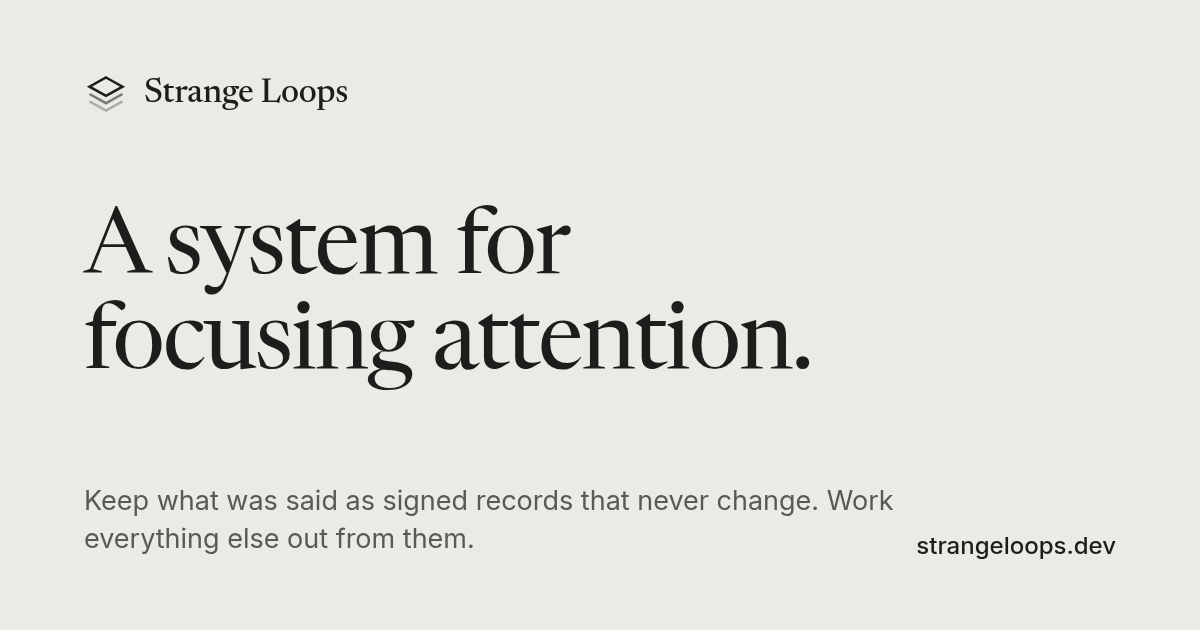
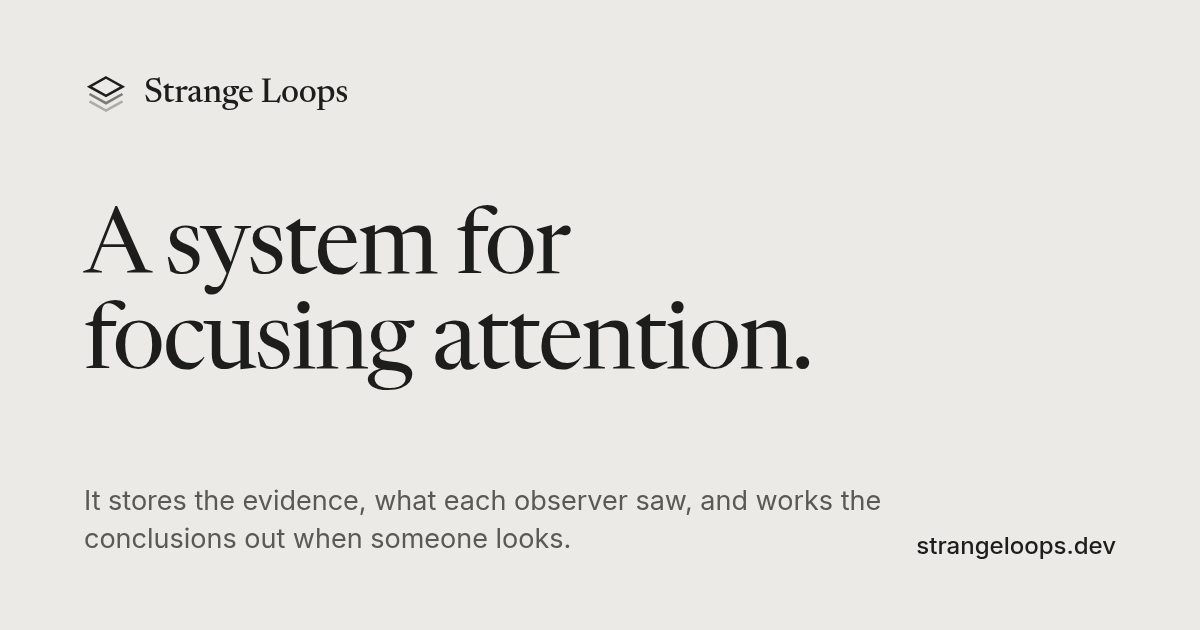
Describe the project by what it stores and what it works out
The description said how the mechanism runs. Kyle shared the first
strange-loops repository's own account, which opens with the
contrast that explains why: an application's database holds a row
that says the world is so, a conclusion nobody witnessed, and this
system stores the evidence and derives the conclusions. The
description now says that, and ends on his name for the purpose, a
system for focusing attention. The card's second line follows it.

Changed region(s): [[0.0617, 0.7841, 0.74, 0.8143], [0.0617, 0.8444, 0.4933, 0.8746]]

diff --git a/design/front/card.html b/design/front/card.html
@@ -12,5 +12,5 @@ p{margin:0;font:400 27px/1.4 "Inter",system-ui,sans-serif;color:#5A5954;max-widt
 </style></head><body><div class="wrap">
 <div class="brand"><svg viewBox="0 0 24 24" fill="none" stroke="currentColor" stroke-width="1.4"><path d="M12 3 21 8 12 13 3 8Z"/><path d="M3 12l9 5 9-5" opacity=".55"/><path d="M3 16l9 5 9-5" opacity=".3"/></svg>Strange Loops</div>
 <h1>A system for focusing attention.</h1>
-<div class="foot"><p>Keep what was said as signed records that never change. Work everything else out from them.</p><span class="url">strangeloops.dev</span></div>
+<div class="foot"><p>It stores the evidence, what each observer saw, and works the conclusions out when someone looks.</p><span class="url">strangeloops.dev</span></div>
 </div></body></html>

diff --git a/CHANGELOG.md b/CHANGELOG.md
@@ -13,7 +13,7 @@ In brief:
 - **The identity entries are read against one real store.** [A seat as a case](notes/2026-11-27-a-seat-as-a-case.md) takes what happened to the coordinator's own store over two days (a new key and a hand-over, a move to its own account, a countersigned tick, a worker started beside it) and reads IS1 to IS11 against it, with five runs. Nothing is ruled and no entry is added. It is written for Kyle's walk with Astra.
 - **IS6 and IS8 gain the alternative each was put without.** Both were recommendations with nothing argued against them. The recommendation in each is unchanged.
 - **A merged request's pipeline is routed by the project's new path.** The project moved on GitLab on 2026-11-26, and the rule that recognises a merge to main still matched the old path, so main ran every gate again after each merge. It ran once so.
-- **The site says what the project is for.** Kyle's own words for it are a system for focusing attention, and the front page's title, its description and the picture a link preview shows now say so. The picture is `design/front/og.png`, drawn from `card.html` beside it with the page's typefaces.
+- **The site says what the project is for.** Kyle's own words for it are a system for focusing attention, and the front page's title and the picture a link preview shows say so. The description takes the contrast the first strange-loops repository opened with: most software stores conclusions that nobody witnessed, and this stores the evidence and works the conclusions out when someone looks. The picture is `design/front/og.png`, drawn from `card.html` beside it with the page's typefaces.
 - **Search engines may find the front page.** It carried `noindex`, as every page of the site did. Kyle asked for the front page to be findable now that it is the site's public face. It says what it is in its head: a title, a description, the address it is served at, an icon, and what a link preview shows. Its title and description had been written into the body, where a crawler may not read them. The rethink page and the working documents keep `noindex`.
 - **The site has a front page, built from the repository.** Kyle had the grammar, guide, laws, evidence and decisions pages redesigned as one page, tested it on readers who do not know the project, and asked for it as the site's front, built the way the other pages are. `design/front/` holds it and the build writes it to `out/index.html`. Nothing a reader sees on it is typed into the page: the decisions view is `DECISIONS.md` in its own words, the laws and evidence views come through the joins the old pages used, the grammar's words and the recipe walk each have one checked source, and the guide view is built from `GUIDE.md`. The standalone grammar, laws and evidence pages are retired. [What changed](#the-front-page)
 - **The built pages leave the repository.** `out/` held every page the build writes, committed beside its source, so each change to a document carried a second, larger change to its page. Kyle asked for the pages to be made when a merge is published. `out/` is now ignored; CI builds the pages twice and fails if the two builds differ, in place of comparing with committed files; and the pages are built from `main` before the site is synced. A hosted page is still the build of one commit.
